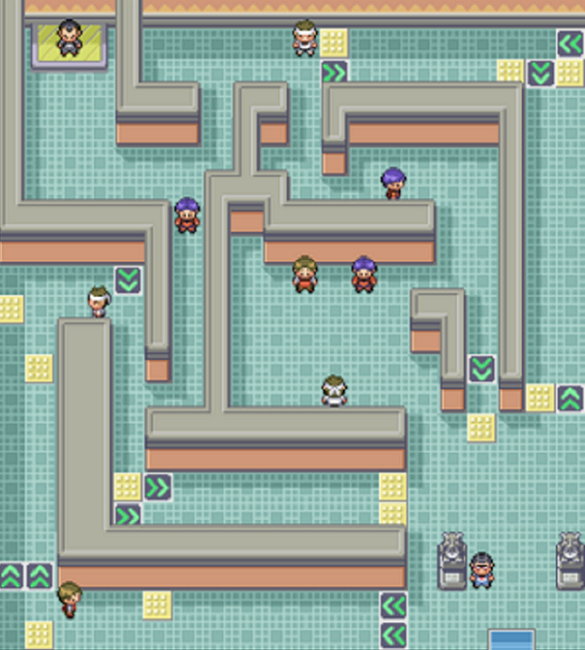
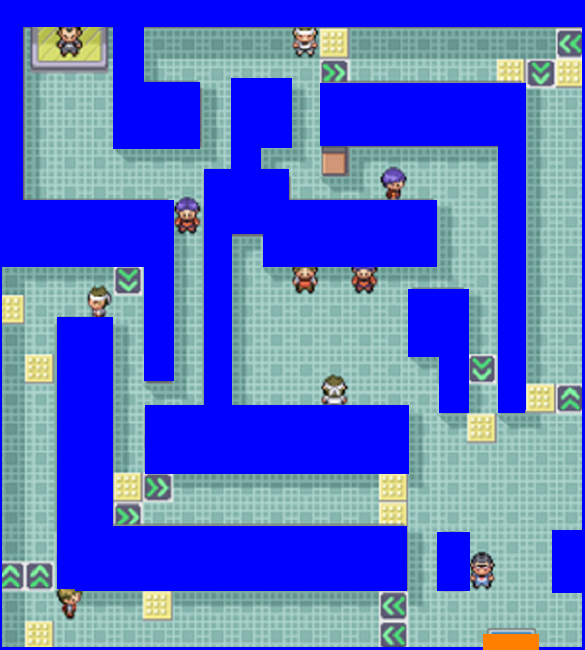
Finished Viridian city

diff --git a/src/MasseyMon.java b/src/MasseyMon.java
@@ -445,6 +445,35 @@ class GamePanel extends JPanel {
 						myGuy.setScreenX(MasseyMon.getMap(picIndex).getStartPosX5());
 					}
 				}
+				else if (checkExit5(myGuy.getWorldX()-1, myGuy.getWorldY() + 27, myGuy.getWorldX()+20,myGuy.getWorldY()+27)) {
+					System.out.println(MasseyMon.getMap(picIndex).getStartPosX6());
+					mini = false;
+					miniPicIndex-=5;
+					myGuy.setWorldX(MasseyMon.getMap(picIndex).getStartPosX6());
+					myGuy.setWorldY(MasseyMon.getMap(picIndex).getStartPosY6());
+					if (MasseyMon.getMap(picIndex).getMapHeight() > 795) {
+						if (myGuy.getWorldY() - 398 > 0 || myGuy.getWorldY() + 398 < MasseyMon.getMap(picIndex).getMapHeight()) {
+							myGuy.setScreenY(398);
+						} else {
+							myGuy.setScreenY(795 - (MasseyMon.getMap(picIndex).getMapHeight() - MasseyMon.getMap(picIndex).getStartPosY6()));
+						}
+					}
+
+					else{
+						myGuy.setScreenY(MasseyMon.getMap(picIndex).getStartPosY6());
+					}
+					if (MasseyMon.getMap(picIndex).getMapWidth() > 956) {
+						if (myGuy.getWorldX() - 478 > 0 || myGuy.getWorldY() + 478 < MasseyMon.getMap(picIndex).getMapWidth()) {
+							myGuy.setScreenX(478);
+						}
+						else {
+							myGuy.setScreenX(956 - (MasseyMon.getMap(picIndex).getMapWidth() - MasseyMon.getMap(picIndex).getStartPosX6()));
+						}
+					}
+					else{
+						myGuy.setScreenX(MasseyMon.getMap(picIndex).getStartPosX6());
+					}
+				}
 				else if (checkPrevRoute(myGuy.getWorldX()-1,myGuy.getWorldY()+27,myGuy.getWorldX()+20,myGuy.getWorldY()+27)){
 					picIndex -=1;
 					myGuy.setWorldX(MasseyMon.getMap(picIndex).getStartPosX7());
@@ -724,7 +753,7 @@ class GamePanel extends JPanel {
 			posY =  MasseyMon.getMiniMap(picIndex,miniPicIndex).getMapY();
 		}
 
-		int WALL = 0xFF008080;
+		int WALL = 0xFFFF8000;
 		if (x < 0 || x >= maskPic.getWidth(null) + posX || y < 0 || y >= maskPic.getHeight(null) + posY) {
 			return false;
 		}

diff --git a/src/pokeMap.java b/src/pokeMap.java
@@ -90,19 +90,19 @@ public class pokeMap {
     }
 
     public int getStartPosX6() {
-        return startPosX4;
+        return startPosX6;
     }
 
     public int getStartPosY6() {
-        return startPosY4;
+        return startPosY6;
     }
 
     public int getStartPosX7() {
-        return startPosX5;
+        return startPosX7;
     }
 
     public int getStartPosY7() {
-        return startPosY5;
+        return startPosY7;
     }
 
     public int getMapX() {
